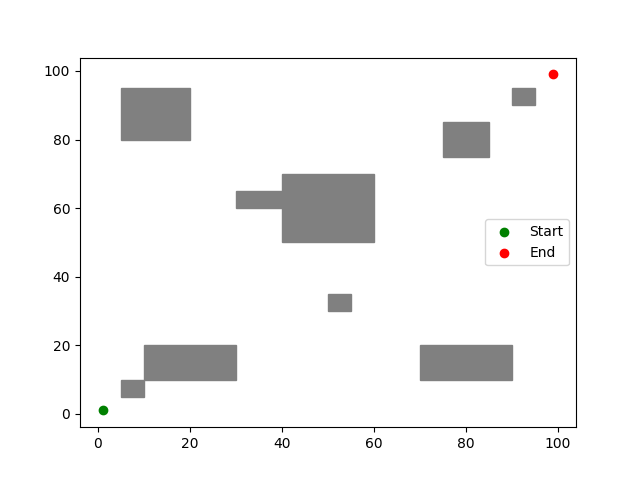
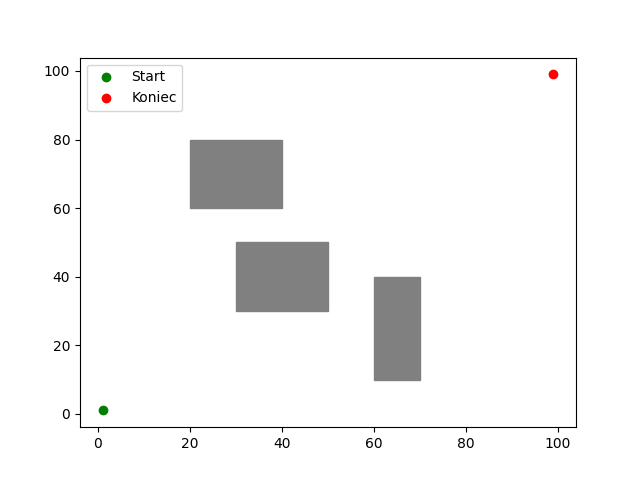
Poprawki w wykresach

diff --git a/ega2.py b/ega2.py
@@ -149,7 +149,7 @@ def plot_path(path, obstacles, start, end):
     x_vals, y_vals = zip(*path)
     plt.plot(x_vals, y_vals, marker='o', color='blue')
     plt.scatter(*start, color='green', label='Start')
-    plt.scatter(*end, color='red', label='End')
+    plt.scatter(*end, color='red', label='Koniec')
     plt.legend()
     plt.show()
 
@@ -182,8 +182,8 @@ if __name__ == "__main__":
     population_size2 = 60
 
     for population_size in [population_size1, population_size2]:
-        for obstacles in [obstacles1, obstacles2, obstacles3]:
-            for generation_number in [generation_number1, generation_number2, generation_number3]:
+        for generation_number in [generation_number1, generation_number2, generation_number3]:
+            for obstacles in [obstacles1, obstacles2, obstacles3]:
                 best_path, best_fitness_history, best_population_history, mean_fitness_history = enhanced_genetic_algorithm(start=start, end=end, obstacles=obstacles, num_generations=generation_number, population_size=population_size)
                 plot_path(best_path, obstacles, start, end)
 
